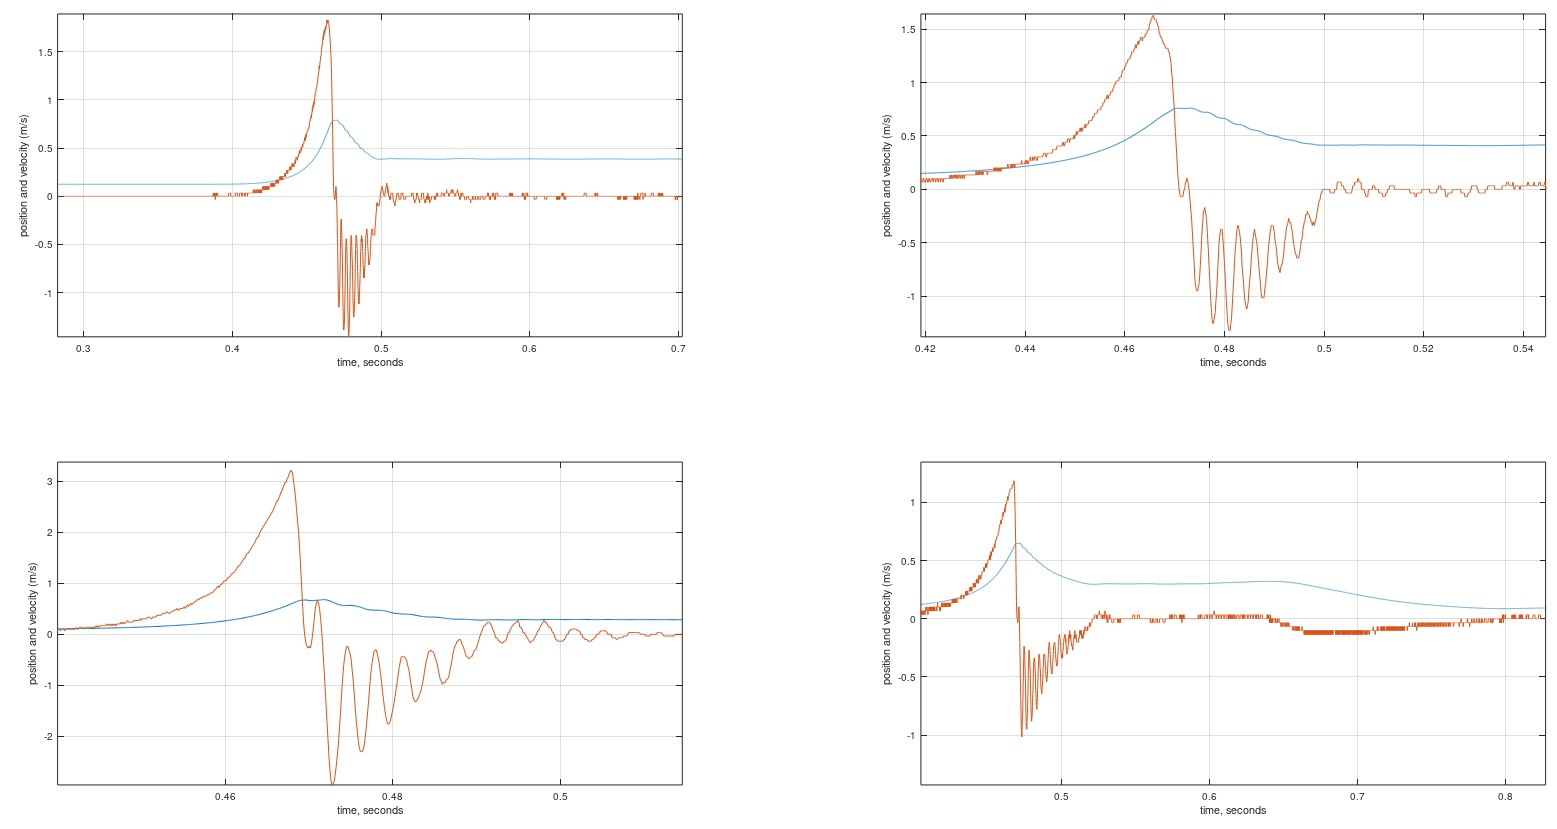
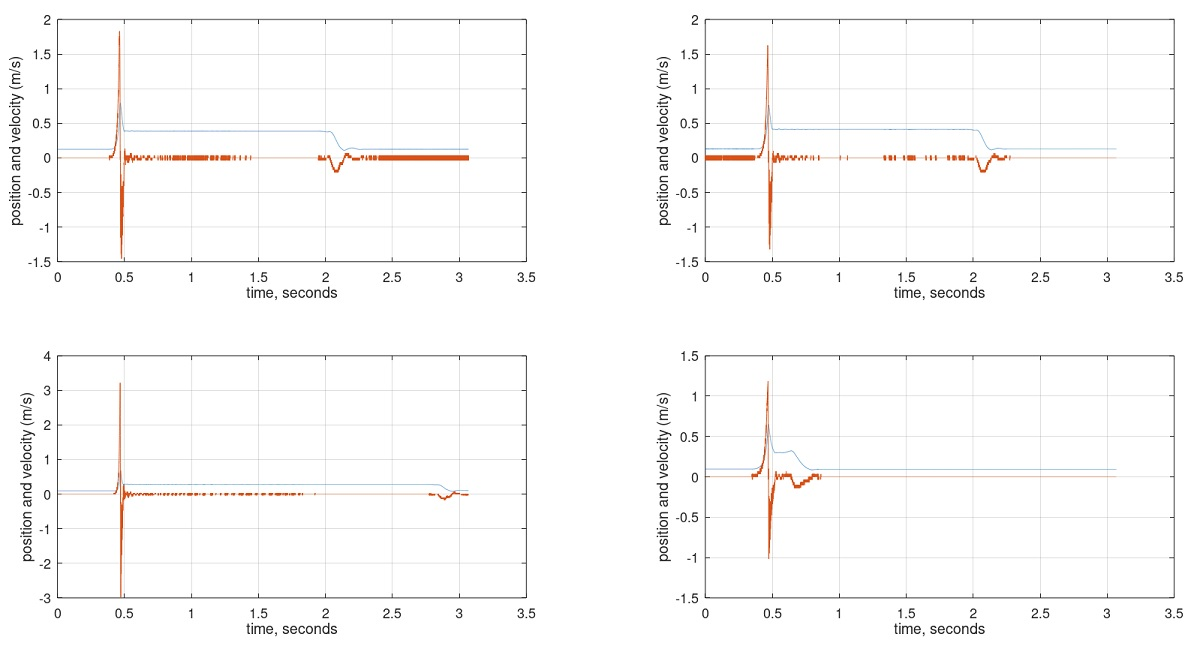
clarify velocity, add figures

diff --git a/data/plot_data_and_velocity.m b/data/plot_data_and_velocity.m
@@ -63,6 +63,7 @@ plot(time,samples);
 title('Renner action hammer samples');
 xlabel('time, seconds');
 ylabel('position, normalized');
+set(gca,"fontsize",18);
 grid;
 
 % Plot the hammer position and an approximation of the velocity
@@ -74,19 +75,23 @@ subplot(2,2,1);
 plot(time,samples(:,1),time(1:end-D),dx(D+1:end,1));
 xlabel('time, seconds');
 ylabel('position and velocity (m/s)');
+set(gca,"fontsize",18);
 grid;
 subplot(2,2,2);
 plot(time,samples(:,2),time(1:end-D),dx(D+1:end,2));
 xlabel('time, seconds');
 ylabel('position and velocity (m/s)');
+set(gca,"fontsize",18);
 grid;
 subplot(2,2,3);
 plot(time,samples(:,3),time(1:end-D),dx(D+1:end,3));
 xlabel('time, seconds');
 ylabel('position and velocity (m/s)');
+set(gca,"fontsize",18);
 grid;
 subplot(2,2,4);
 plot(time,samples(:,4),time(1:end-D),dx(D+1:end,4));
 xlabel('time, seconds');
 ylabel('position and velocity (m/s)');
+set(gca,"fontsize",18);
 grid;
